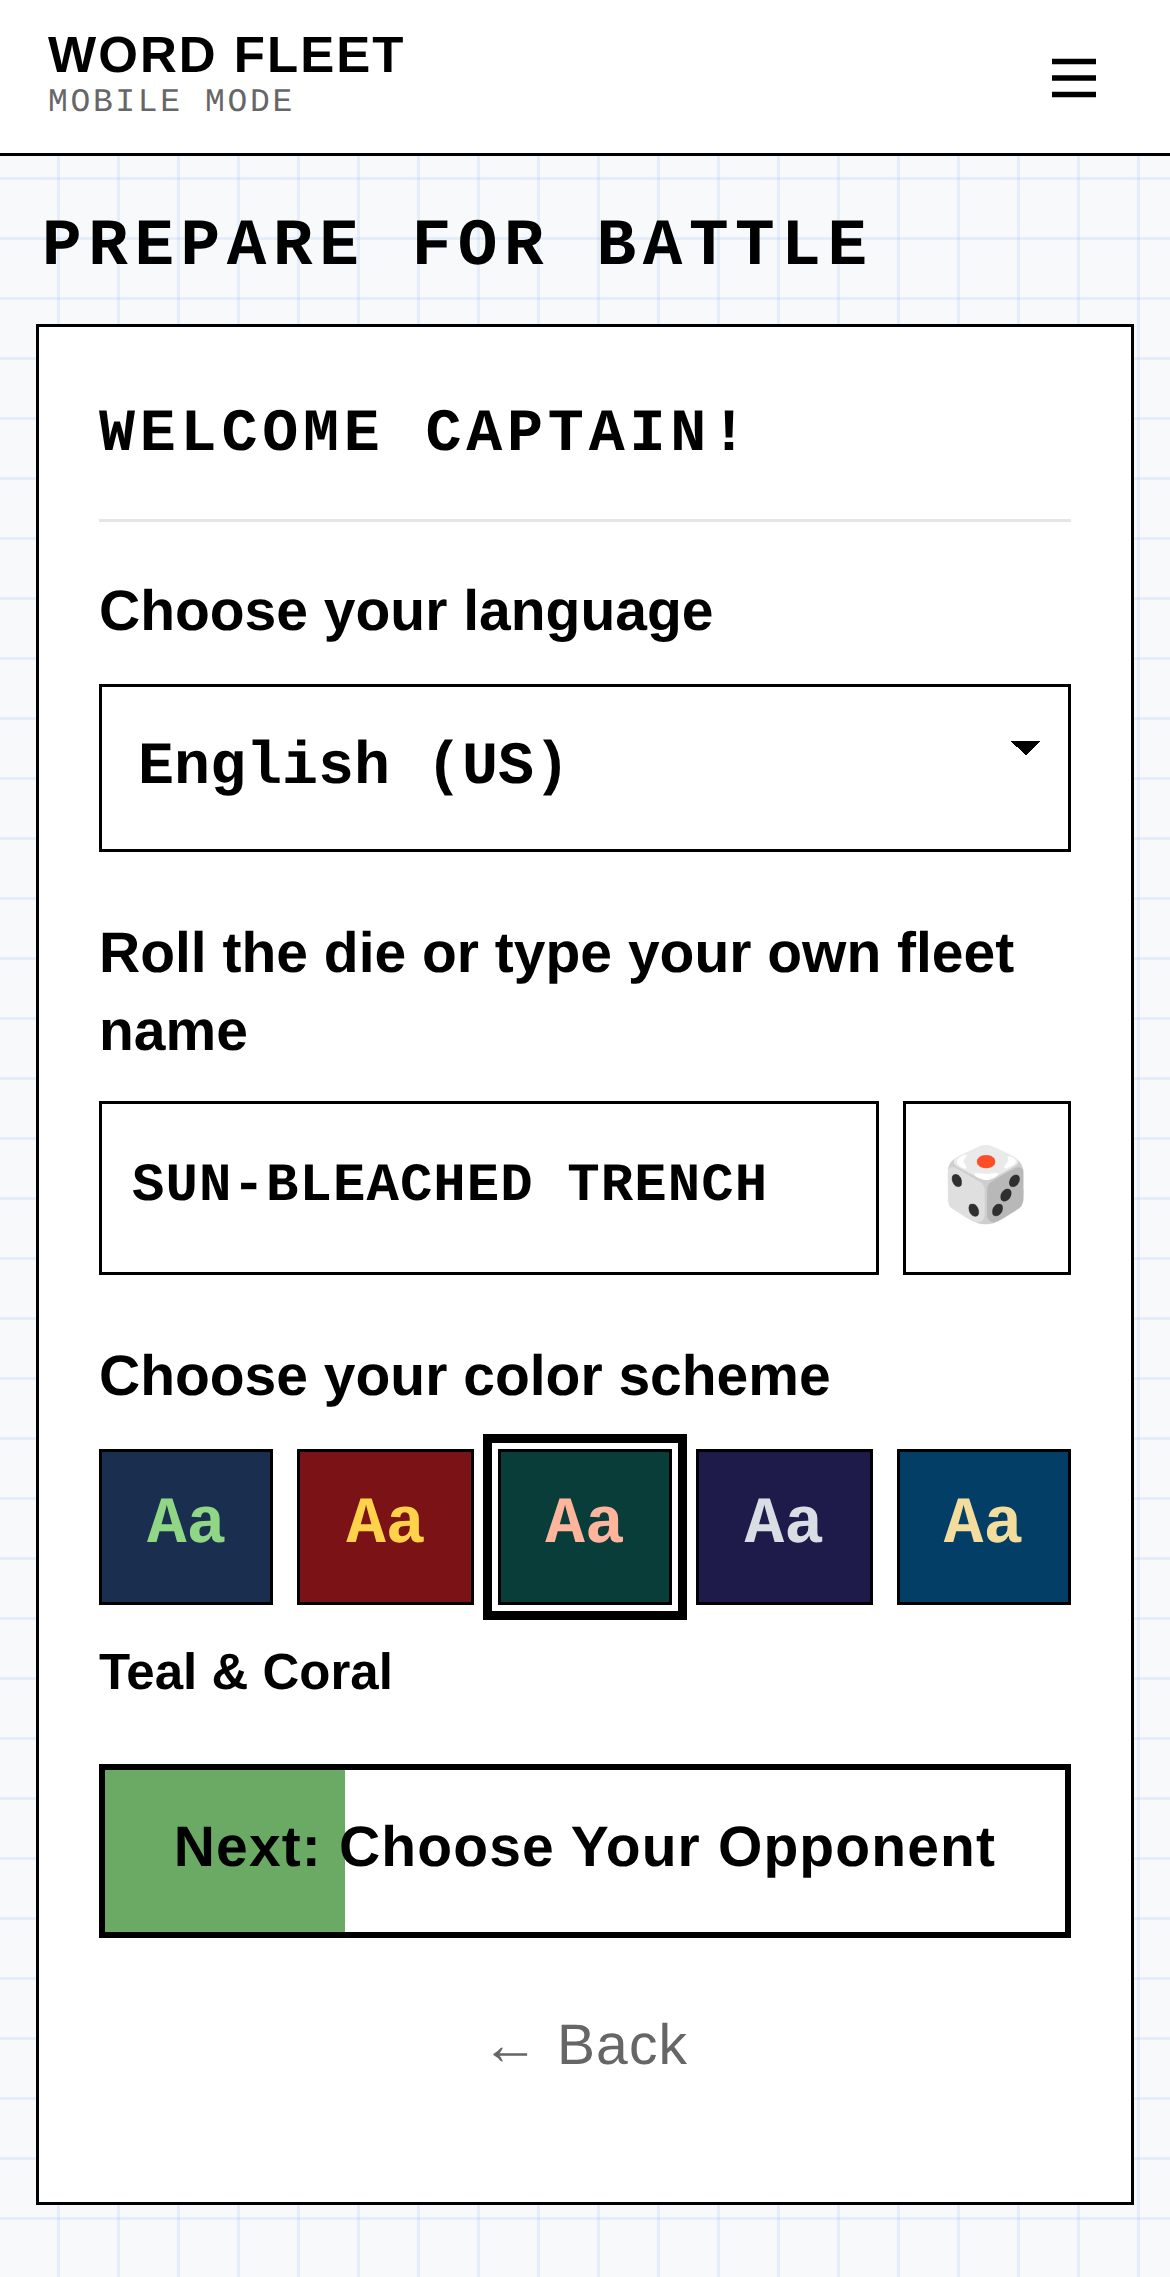
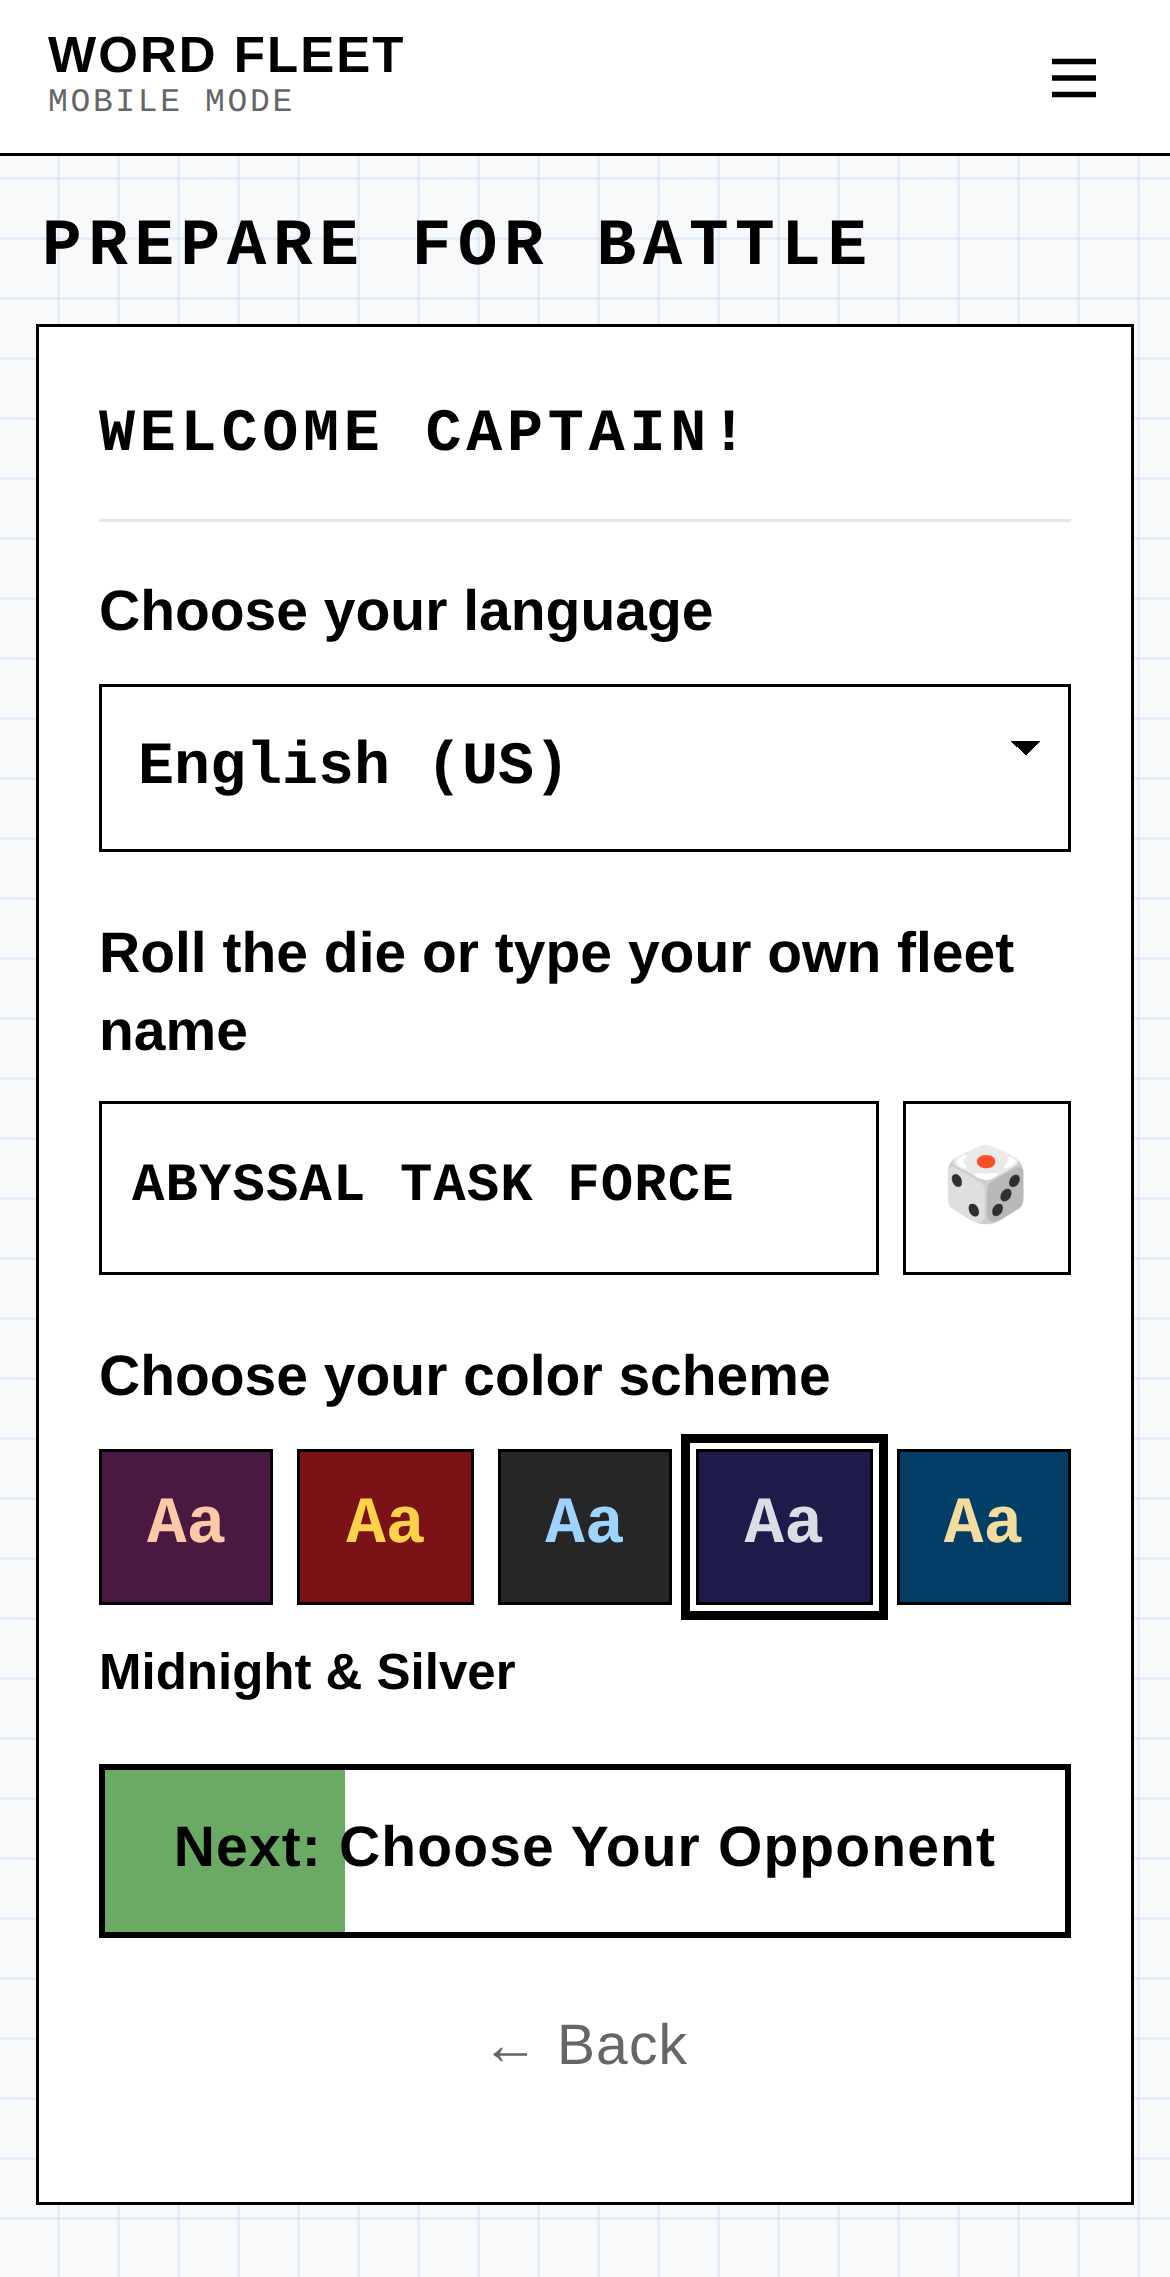
001 color schemes: no greens or teals (Plum & Peach, Charcoal & Sky replace Navy & Green, Teal & Coral)
Claude-Session: https://claude.ai/code/session_013sUGAAEC45a1EJCrQWVj9Q

Changed region(s): [[0.0615, 0.6236, 0.7692, 0.7484], [0.1231, 0.4989, 0.4615, 0.5301], [0.4923, 0.4989, 0.6769, 0.5301]]

diff --git a/mobile/app.js b/mobile/app.js
@@ -38,11 +38,12 @@
   };
 
   // Color schemes offered on 001: a dark first color and a light second color that reads clearly as text
-  // on the first (every pair is at least 7:1 contrast, WCAG AAA). Saved as S.colors; where they apply is decided later.
+  // on the first. No greens or teals: green belongs to the game's own colors.
+  // Every pair is at least 7:1 contrast (WCAG AAA). Saved as S.colors; where they apply is decided later.
   var COLOR_SCHEMES = [
-    { id: 'navy-green',      name: 'Navy & Green',      colors: ['#1a2f4f', '#8fd685'] },   // 7.8:1
+    { id: 'plum-peach',      name: 'Plum & Peach',      colors: ['#4a1942', '#ffc9a8'] },   // 9.4:1
     { id: 'crimson-gold',    name: 'Crimson & Gold',    colors: ['#7a1216', '#ffd24a'] },   // 7.6:1
-    { id: 'teal-coral',      name: 'Teal & Coral',      colors: ['#083d3a', '#ffb59c'] },   // 7.1:1
+    { id: 'charcoal-sky',    name: 'Charcoal & Sky',    colors: ['#262626', '#9fd3ff'] },   // 9.5:1
     { id: 'midnight-silver', name: 'Midnight & Silver', colors: ['#1e1b4b', '#d9dde4'] },   // 11.7:1
     { id: 'ocean-sand',      name: 'Ocean & Sand',      colors: ['#023e66', '#f4dc9c'] }    // 8.3:1
   ];
@@ -385,7 +386,9 @@
       return '<option value="' + esc(l.code) + '"' + (lang && l.code === lang.code ? ' selected' : '') + '>' + esc(l.name) + '</option>';
     }).join('');
     $('selLang').disabled = languages.length < 2;
-    var scheme = S.colors || COLOR_SCHEMES[0].id;
+    // A saved scheme that no longer exists gets a fresh random one.
+    if (!COLOR_SCHEMES.some(function (cs) { return cs.id === S.colors; })) { S.colors = pick(COLOR_SCHEMES).id; save(); }
+    var scheme = S.colors;
     $('colorSchemes').innerHTML = COLOR_SCHEMES.map(function (cs) {
       return '<button type="button" class="swatch' + (cs.id === scheme ? ' is-on' : '') + '" data-scheme="' + cs.id + '" role="radio" aria-checked="' + (cs.id === scheme) + '" aria-label="' + esc(cs.name) + '">' +
         '<span style="background:' + cs.colors[0] + ';color:' + cs.colors[1] + '">Aa</span></button>';

diff --git a/mobile/index.html b/mobile/index.html
@@ -18,7 +18,7 @@
   <link rel="preconnect" href="https://fonts.gstatic.com" crossorigin>
   <link href="https://fonts.googleapis.com/css2?family=Courier+Prime:wght@400;700&family=Inter:wght@400;500;600;700&display=swap" rel="stylesheet">
   <!-- Bump ?v= on every release (and CACHE in sw.js) so a new page never runs old code. -->
-  <link rel="stylesheet" href="app.css?v=60">
+  <link rel="stylesheet" href="app.css?v=61">
 </head>
 <body>
 
@@ -222,7 +222,7 @@
 
 <div class="toast" id="toast" hidden></div>
 
-<script src="audio.js?v=60"></script>
-<script src="app.js?v=60"></script>
+<script src="audio.js?v=61"></script>
+<script src="app.js?v=61"></script>
 </body>
 </html>

diff --git a/mobile/sw.js b/mobile/sw.js
@@ -1,11 +1,11 @@
 /* Word Fleet service worker: the whole game works offline once loaded. */
-var CACHE = 'wordfleet-v60';
+var CACHE = 'wordfleet-v61';
 var SHELL = [
   './',
   'index.html',
-  'app.css?v=60',
-  'app.js?v=60',
-  'audio.js?v=60',
+  'app.css?v=61',
+  'app.js?v=61',
+  'audio.js?v=61',
   'manifest.webmanifest',
   'icons/icon-180.png',
   'icons/icon-192.png',

diff --git a/mobile/screens/README.md b/mobile/screens/README.md
@@ -8,7 +8,7 @@ referred to by name when asking for changes. Each has a reference snapshot in th
 | Name | In the code | Snapshot | What it is |
 | --- | --- | --- | --- |
 | **MOBILE-HOME** *(parked)* | `<section id="scrMobileHome" data-screen="MOBILE-HOME">`, `SCREENS.home` | `mobile-home.png` | **Parked, not shown to players.** Kept for later use. Was the first screen: WORD FLEET title, Mobile Mode tag, blurb, New Battle and Rules of Engagement buttons. The app now opens on 001-MOBILE-PREPARE. |
-| **001-MOBILE-PREPARE** | `<section id="scrSetup" data-screen="001-MOBILE-PREPARE">`, `SCREENS.setup` | `001-mobile-prepare.png` | **First screen players see.** Card title "Welcome Captain!". "Choose your language", then "Roll the die or type your own fleet name" (with dice). "Choose your color scheme": five two-color swatches (Navy & Green, Crimson & Gold, Teal & Coral, Midnight & Silver, Ocean & Sand), each a dark color with a light text color at least 7:1 contrast, shown as "Aa", saved as `S.colors`. A random scheme is chosen on load until the captain picks one. Not applied anywhere yet. Changing language rolls a new fleet name in that language (`dictionaries/fleet-names.json`). Button "Next: Choose Your Opponent", filled 25% green as a progress bar. "← Back" goes to the Word Fleet home page (`../`, the site's `index.html`). Screens 001-004 share one look: a "PREPARE FOR BATTLE" page header above the card (`.page-head`), the step's card title, plain-language section headers (`.label--say`), and large, easy-to-read text (`.setup-big`). |
+| **001-MOBILE-PREPARE** | `<section id="scrSetup" data-screen="001-MOBILE-PREPARE">`, `SCREENS.setup` | `001-mobile-prepare.png` | **First screen players see.** Card title "Welcome Captain!". "Choose your language", then "Roll the die or type your own fleet name" (with dice). "Choose your color scheme": five two-color swatches (Plum & Peach, Crimson & Gold, Charcoal & Sky, Midnight & Silver, Ocean & Sand; no greens, which belong to the game's own colors), each a dark color with a light text color at least 7:1 contrast, shown as "Aa", saved as `S.colors`. A random scheme is chosen on load until the captain picks one. Not applied anywhere yet. Changing language rolls a new fleet name in that language (`dictionaries/fleet-names.json`). Button "Next: Choose Your Opponent", filled 25% green as a progress bar. "← Back" goes to the Word Fleet home page (`../`, the site's `index.html`). Screens 001-004 share one look: a "PREPARE FOR BATTLE" page header above the card (`.page-head`), the step's card title, plain-language section headers (`.label--say`), and large, easy-to-read text (`.setup-big`). |
 | **002-MOBILE-OPPONENT** | `<section id="scrOpponent" data-screen="002-MOBILE-OPPONENT">`, `SCREENS.opponent` | `002-mobile-opponent.png` | Card title "Choose Your Opponent", section "Pick the AI Captain you'll face": the three AI Captains (Captain Rubber Duck, Captain Steady, Captain Lexicon), each with a short character sketch. Button "Next: Build Your Word-Ships", filled 50% green. |
 | **003-MOBILE-WORD-SHIPS** | `<section id="scrWords" data-screen="003-MOBILE-WORD-SHIPS">`, `SCREENS.words` | `003-mobile-word-ships.png` | Card title "Build Your Word-Ships". Section "Offensive words": a "Possibly Offensive Words OK" on/off switch, "Applies to both fleets." Section "Your five word-ships" (Refresh All at the right end of its header): "Tap any word to type your own." The five word-ships arrive drawn for your opponent and are editable, each with a ↻ redraw. A typed word is checked against the dictionary when its box loses focus, and every word is checked again on "Next: Deploy Your Fleet" (filled 75% green). |
 | **004-MOBILE-DEPLOY** | `<section id="scrDeploy" data-screen="004-MOBILE-DEPLOY">`, `SCREENS.deploy` | `004-mobile-deploy.png` | Step 4 of 4 of Prepare for Battle, same look as 001-003. Card title "Deploy Your Fleet", then the Defense Grid dressed like the in-game one (navy "DEFENSE GRID PREVIEW" banner with your fleet name under it, navy top edge). Opens with the five word-ships already deployed at random, in green; they never leave the grid. Section "Keep this layout or rearrange it" with a Shuffle button (new random layout); drag a ship to move it, double-tap its first letter to turn it. "LET THE BATTLE BEGIN!" (progress bar full), Back. |
